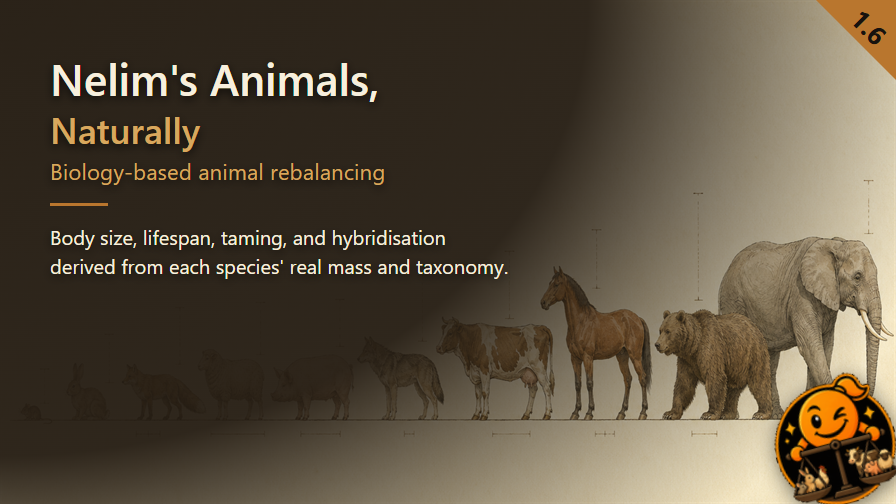
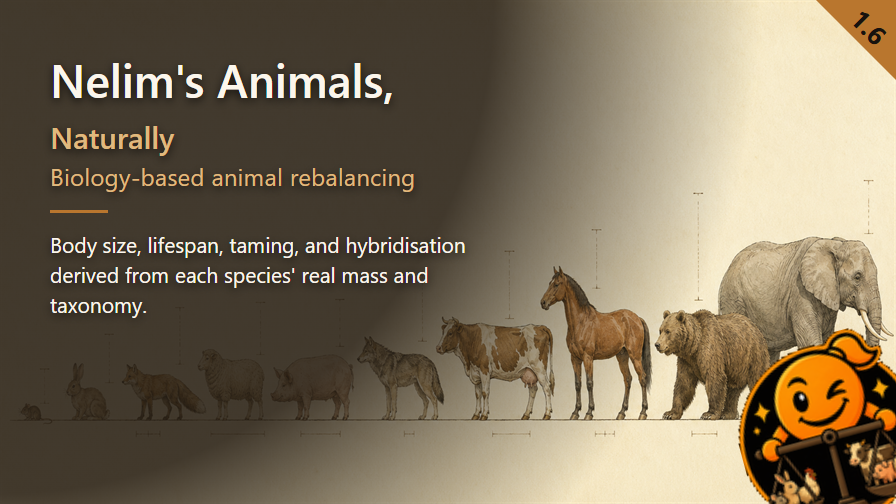
feat: migrate preview pipeline to shared ../scripts/Render-Preview.cjs + Make-PreviewBadge.ps1
Same move as ~50 other mods in the workspace (reference: AlphaMythologyRenew,
monorepo commits c8719f7/21ea92e/08233e01). Own Art/render-preview.cjs and
cutout-icon.cjs deleted; the local package.json/node_modules are no longer
needed since the shared script uses the machine-wide codex-runtime
playwright install. Mod-specific text now lives in Art/preview-copy.json,
the palette stays in Art/preview-palette.json. Art/verify-preview.py
(Pillow) now does the contrast/size QA the shared renderer no longer does
itself, since it only checks fonts.

Palette retuned for the new layout's lighter veil, caught by
verify-preview.py: inkSecondary #D8A85E -> #E0B97E (the "Naturally"/tag
line otherwise read at 4.14:1), inkPrimary #F7EFDD -> #FBF6EC (the summary
paragraph's box reaches a lighter photo patch, otherwise 4.32:1). Final:
title 10.23:1, suffix 5.99:1, tag 4.88:1, p 4.59:1, version 5.04:1,
535632 bytes. Art/steam/00-Preview.png recopied to match.

diff --git a/Art/Preview-layout.html b/Art/Preview-layout.html
@@ -1,0 +1,15 @@
+<!doctype html><meta charset="utf-8"><style>
+:root{--veil:#241C13;--inkPrimary:#FBF6EC;--inkSecondary:#E0B97E;--accent:#B9762E;--badgeInk:#17120E}*{margin:0;padding:0;box-sizing:border-box}
+html,body{width:896px;height:504px;overflow:hidden;font-family:"Segoe UI",system-ui,sans-serif}
+body{background:url(Preview.png) center/cover}
+.veil{position:absolute;inset:0;background:radial-gradient(circle at 0% 0%,rgba(36,28,19,.86) 0%,rgba(36,28,19,.86) 48%,rgba(36,28,19,0) 74%)}
+.copy{position:absolute;left:50px;top:54px;width:430px;color:var(--inkPrimary);text-shadow:0 3px 10px rgba(0,0,0,.75)}
+h1{font-size:46px;font-weight:600;line-height:1.1;letter-spacing:0}
+.suffix{font-size:.65em;color:var(--inkSecondary)}
+.tag{font-size:24px;font-weight:400;line-height:1.1;letter-spacing:.2px;margin-top:8px;color:var(--inkSecondary)}
+.rule{width:58px;height:3px;background:var(--accent);margin:20px 0 16px}
+p{font-size:21px;font-weight:400;line-height:1.45;width:430px;letter-spacing:0;color:var(--inkPrimary)}
+.badge{position:absolute;right:0;top:0;width:80px;height:80px;background:var(--accent);clip-path:polygon(0 0,100% 0,100% 100%)}
+.version{position:absolute;left:869px;top:27px;transform:translate(-50%,-50%) rotate(45deg);font-size:26px;font-weight:700;line-height:1;color:var(--badgeInk)}
+.icon-badge{position:absolute;right:0;bottom:0;width:180px;transform:translate(12.5%,12.5%) rotate(-15deg)}
+</style><div class="veil"></div><div class="copy"><h1><span class="title-main">Nelim's Animals,</span><br><span class="suffix">Naturally</span></h1><div class="tag">Biology-based animal rebalancing</div><div class="rule"></div><p>Body size, lifespan, taming, and hybridisation<br>derived from each species' real mass and taxonomy.</p></div><div class="badge"></div><div class="version">1.6</div><img class="icon-badge" src="ModIcon-badge.png">

diff --git a/Art/verify-preview.py b/Art/verify-preview.py
@@ -1,0 +1,16 @@
+from PIL import Image
+import json,math,os
+im=Image.open('Mod/About/Preview.png').convert('RGB');bg=Image.open('Art/Preview-background-qa.png').convert('RGB');p=json.load(open('Art/preview-palette.json',encoding='utf-8-sig'));q=json.load(open('Art/Preview-qa.json'))
+def lum(c):
+ s=[v/255 for v in c];s=[v/12.92 if v<=.04045 else ((v+.055)/1.055)**2.4 for v in s];return sum(v*w for v,w in zip(s,[.2126,.7152,.0722]))
+def rgb(h):return tuple(bytes.fromhex(h[1:]))
+def contrast(a,b):
+ a,b=sorted([lum(a),lum(b)]);return (b+.05)/(a+.05)
+for k,e in q['elements'].items():
+ b=e['bounds'];box=(math.floor(b['x']),math.floor(b['y']),math.ceil(b['x']+b['width']),math.ceil(b['y']+b['height']))
+ assert box[0]>=0 and box[1]>=0 and box[2]<=896 and box[3]<=504
+ if k=='.version':r=contrast(rgb(p['badgeInk']),rgb(p['accent']))
+ else:r=min(contrast(rgb(p['inkSecondary' if k in ('.tag','.suffix') else 'inkPrimary']),c) for c in bg.crop(box).getdata())
+ e['minimumContrast']=round(r,3);assert r>=4.5,(k,r)
+q['size']=im.size;q['bytes']=os.path.getsize('Mod/About/Preview.png');assert q['bytes']<900000
+im.resize((268,151),Image.Resampling.LANCZOS).save('Art/Preview-thumbnail-qa.png');json.dump(q,open('Art/Preview-qa.json','w'),indent=2);print([(k,e['minimumContrast']) for k,e in q['elements'].items()]);print(q['bytes'])

diff --git a/STATUS.md b/STATUS.md
@@ -34,7 +34,7 @@ remaining:
   - resolved 2026-09-28: values the patches write, run fd90/valeurs, 11/11 applicable scenarios passed with PickleTools' DefFields companion (Horse baseBodySize 1.926, gestationPeriodDays 24.17, first game run of this companion)
   - pending: executed results for every conditional scenario (3 passes requested 2026-09-28), then read reports, before tested
   - resolved 2026-09-29: Doublons.xml removal logic proven offline (Tests/Test-Xml.ps1, SCWelshCorgi/TemperateForest synthetic fixture: wildBiomes and wildAnimals entry both removed); dozens of other packs still unstaged in Tests/Pickle/ (see TESTING.md "What is not covered")
-  - resolved 2026-09-29: Preview.png now carries the cut-out ModIcon, bottom-right corner, -15deg (owner's rule, PUBLISHING.md); Art/steam/00-Preview.png kept as a byte copy by render-preview.cjs. No Gallery images beyond 00- exist yet: this mod has no @review/@film Pickle scenario to source them from.
+  - resolved 2026-09-29: Preview.png carries the cut-out ModIcon, bottom-right corner, -15deg (owner's rule, PUBLISHING.md). Migrated same day to the shared `../scripts/Render-Preview.cjs` + `../scripts/Make-PreviewBadge.ps1` pipeline (own `Art/render-preview.cjs`/`cutout-icon.cjs` deleted; `Art/preview-copy.json` now holds the mod-specific text, `Art/verify-preview.py` the contrast/size QA the shared script no longer does itself). Palette retuned for the new layout's lighter veil: inkSecondary `#D8A85E`->`#E0B97E`, inkPrimary `#F7EFDD`->`#FBF6EC`. Verified: title 10.23, suffix 5.99, tag 4.88, p 4.59, version 5.04, 535632 bytes. Art/steam/00-Preview.png recopied by hand (the shared script does not do this itself; no Gallery images beyond 00- exist yet, no @review/@film Pickle scenario to source them from).
 updated: 2026-09-29
 ---
 

diff --git a/Art/README.md b/Art/README.md
@@ -1,0 +1,20 @@
+# Artwork
+
+- `Preview-source.png` is the preserved original illustration. `Preview.png` is a byte-for-byte copy of
+  it under the name `../scripts/Render-Preview.cjs` reads.
+- `Mod/About/Preview.png` (896 x 504) is `Preview.png` composited with the title, tag, summary, version
+  badge and, since 2026-09-29, the cut-out ModIcon, by `../scripts/Render-Preview.cjs` reading
+  `preview-copy.json` and `preview-palette.json`.
+- `ModIcon-badge.png` is `Mod/About/ModIcon.png`'s background flood-filled out and alpha-trimmed, made
+  once by `../scripts/Make-PreviewBadge.ps1 -SaveTrimmedIconTo Art/ModIcon-badge.png` (re-run only if
+  ModIcon.png changes). It sits bottom-right (`preview-copy.json`'s `iconBadge.corner`), -15deg: the
+  top-right corner already carries the "1.6" version triangle.
+- `Art/steam/00-Preview.png` is a byte-for-byte copy of `Mod/About/Preview.png`, recopied by hand after
+  each render (the shared script does not do this itself): every Workshop gallery starts with it
+  (owner's rule, PUBLISHING.md). No further gallery images exist yet.
+- `Preview.ico`/`ModIcon.ico` are the local folder icons, outside `Mod/`.
+
+Run `node ../scripts/Render-Preview.cjs bottom-right` from this repo's root after any change to the
+illustration, the palette, the copy text or the icon badge, then `uv run --with pillow python
+Art/verify-preview.py` (contrast ratios against the real rendered background, size under 900 KB,
+writes `Preview-thumbnail-qa.png`), then recopy `Mod/About/Preview.png` to `Art/steam/00-Preview.png`.

diff --git a/docs/runs/history.md b/docs/runs/history.md
@@ -14,3 +14,4 @@ Newest last. Evidence stays in Tests/Pickle/Evidence/ (ignored by git).
 - 2026-09-29 Tests/Test-Xml.ps1 created (offline XML patch-target tests, no game): PASS, 10 patch files, About.xml contract, bare/no-dependency/VEF fixtures, absent-mod safety.
 - 2026-09-29 packageId renamed nelim.animalrebalance -> nelim.animalsnaturally (matches the current mod/folder name, done before any Workshop publication so no save/item compatibility to preserve). About.xml, STATUS.md, the Pickle companion (now nelim.animalsnaturally.pickletests) and its five feature files, and Tests/Test-Xml.ps1's own contract check all updated. Tests/Test-Xml.ps1 rerun: PASS.
 - 2026-09-29 Preview.png regenerated with ModIcon composited (Art/cutout-icon.cjs, flood-fill, bottom-right -15deg, owner's rule); Art/steam/00-Preview.png created as its byte copy. QA: 529070 bytes, contrast unchanged for text (h1 12.84, .suffix 6.96, .tag 6.78, p 9.89, .version 5.04).
+- 2026-09-29 preview pipeline migrated to shared ../scripts/Render-Preview.cjs + Make-PreviewBadge.ps1 (AlphaMythologyRenew reference, monorepo commits c8719f7/21ea92e/08233e01): own Art/render-preview.cjs and cutout-icon.cjs deleted, package.json/node_modules removed (shared script uses the machine-wide codex-runtime playwright). Palette retuned for the new layout's lighter veil (inkSecondary/inkPrimary lightened) after verify-preview.py caught .tag and p under 4.5:1. Final: title 10.23, suffix 5.99, tag 4.88, p 4.59, version 5.04, 535632 bytes.
